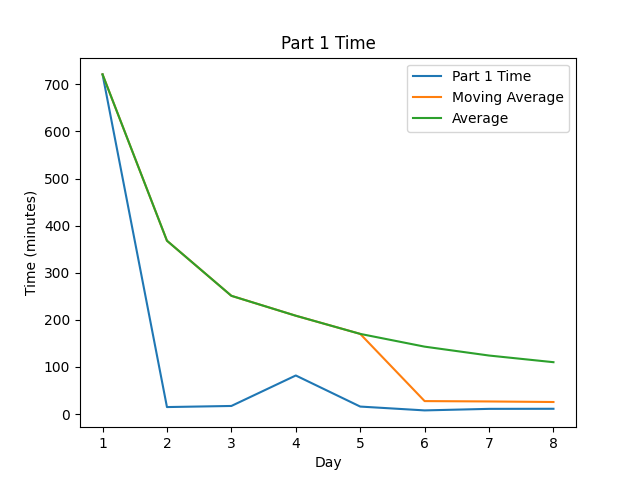
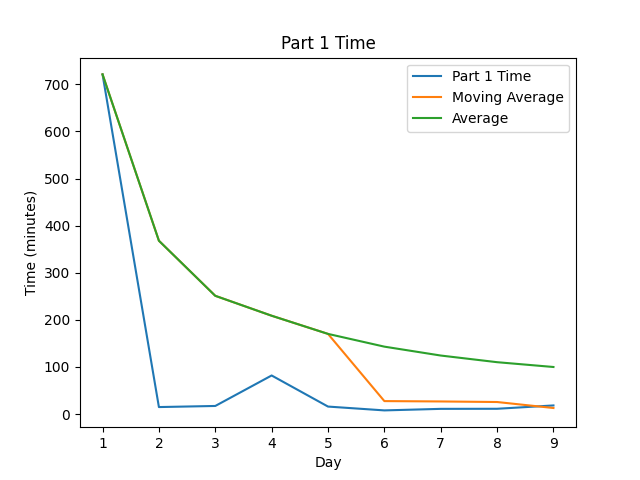
Day 9 ✅

diff --git a/src/day09/solution.rs b/src/day09/solution.rs
@@ -1,0 +1,95 @@
+fn parse_locations(input: String) -> Vec<Vec<usize>> {
+    input
+        .lines()
+        .map(|line| {
+            line.trim().chars().map(|c| c.to_digit(10).unwrap() as usize).collect::<Vec<usize>>()
+        })
+        .collect::<Vec<Vec<usize>>>()
+}
+fn find_low_spots(locations: Vec<Vec<usize>>) -> Vec<(usize, usize)> {
+    let mut low_spots = vec![];
+    for i in 0..locations.len() {
+        for j in 0..locations[i].len() {
+            // Continue if found to be adjacent to a lower spot
+            if i > 0 && locations[i][j] >= locations[i - 1][j] {
+                continue;
+            }
+            if i < locations.len() - 1 && locations[i][j] >= locations[i + 1][j] {
+                continue;
+            }
+            if j > 0 && locations[i][j] >= locations[i][j - 1] {
+                continue;
+            }
+            if j < locations[i].len() - 1 && locations[i][j] >= locations[i][j + 1] {
+                continue;
+            }
+            // Local minimum found
+            low_spots.push((i, j));
+        }
+    }
+    low_spots
+}
+
+pub fn part1(input: String) -> i64 {
+    let locations = parse_locations(input);
+    find_low_spots(locations.clone())
+        .iter()
+        // Risk factor of a spot is equal to 1 plus the depth
+        .map(|(i, j)| locations[*i][*j] as i64 + 1)
+        .sum::<i64>()
+}
+
+pub fn part2(input: String) -> i64 {
+    let locations = parse_locations(input);
+    let mut basins = vec![];
+    find_low_spots(locations.clone())
+        .iter()
+        .for_each(|spot| {
+            // Perform a breadth-first search on all low spots to determine the size of the basin
+            let mut queue = vec![*spot];
+            // Track the map of visited spots to prevent double counting
+            let mut in_basin = vec![
+                vec![false; locations[0].len()];
+                locations.len()
+            ];
+            while let Some(curr) = queue.pop() {
+                in_basin[curr.0][curr.1] = true;
+                // Check adjacent cells. If they're in the same basin, add them to the queue
+
+                if curr.0 > 0 &&
+                    // If not already visited, add to the queue
+                    !in_basin[curr.0 - 1][curr.1] &&
+                    // Not a basin barrier
+                    locations[curr.0 - 1][curr.1] >= locations[curr.0][curr.1] &&
+                    // 9's are barriers automatically
+                    locations[curr.0 - 1][curr.1] != 9 {
+                    queue.push((curr.0 - 1, curr.1));
+                }
+                if curr.0 < locations.len() - 1 &&
+                    !in_basin[curr.0 + 1][curr.1] &&
+                    locations[curr.0 + 1][curr.1] >= locations[curr.0][curr.1] &&
+                    locations[curr.0 + 1][curr.1] != 9 {
+                    queue.push((curr.0 + 1, curr.1));
+                }
+                if curr.1 > 0 &&
+                    !in_basin[curr.0][curr.1 - 1] &&
+                    locations[curr.0][curr.1 - 1] >= locations[curr.0][curr.1] &&
+                    locations[curr.0][curr.1 - 1] != 9 {
+                    queue.push((curr.0, curr.1 - 1));
+                }
+                if curr.1 < locations[curr.0].len() - 1 &&
+                    !in_basin[curr.0][curr.1 + 1] &&
+                    locations[curr.0][curr.1 + 1] >= locations[curr.0][curr.1] &&
+                    locations[curr.0][curr.1 + 1] != 9 {
+                    queue.push((curr.0, curr.1 + 1));
+                }
+            }
+            basins.push(
+                 in_basin.iter().fold(0, |acc, row| acc + row.iter().filter(|&&b| b).count() as i64) as i64
+            );
+        });
+    // Sort descending by basin size
+    basins.sort_by(|a, b| (*b).cmp(a));
+    // Score is the product of the 3 largest basins
+    basins[0..=2].iter().product()
+}

diff --git a/tests/test_day09.rs b/tests/test_day09.rs
@@ -1,0 +1,25 @@
+use aoc_2021::day09 as day;
+
+#[test]
+fn test_part1() {
+    let inputs = "2199943210
+3987894921
+9856789892
+8767896789
+9899965678";
+    let expected = 15;
+    let result = day::part1(inputs.to_string());
+    assert_eq!(expected, result);
+}
+
+#[test]
+fn test_part2() {
+    let inputs = "2199943210
+3987894921
+9856789892
+8767896789
+9899965678";
+    let expected = 1134;
+    let result = day::part2(inputs.to_string());
+    assert_eq!(expected, result);
+}

diff --git a/src/main.rs b/src/main.rs
@@ -28,6 +28,7 @@ fn get_day_fns() -> (PartFunction, PartFunction) {
         6 => (day06::part1, day06::part2),
         7 => (day07::part1, day07::part2),
         8 => (day08::part1, day08::part2),
+        9 => (day09::part1, day09::part2),
 // CASE_MARKER
         _ => {
             panic!("Invalid day number: {}", day_num);

diff --git a/src/lib.rs b/src/lib.rs
@@ -6,3 +6,4 @@
 #[path = "day06/solution.rs"] pub mod day06;
 #[path = "day07/solution.rs"] pub mod day07;
 #[path = "day08/solution.rs"] pub mod day08;
+#[path = "day09/solution.rs"] pub mod day09;

diff --git a/src/day09/README.md b/src/day09/README.md
@@ -1,0 +1,76 @@
+\--- Day 9: Smoke Basin ---
+---------------------------
+
+These caves seem to be [lava tubes](https://en.wikipedia.org/wiki/Lava_tube). Parts are even still volcanically active; small hydrothermal vents release smoke into the caves that slowly settles like rain.
+
+If you can model how the smoke flows through the caves, you might be able to avoid it and be that much safer. The submarine generates a heightmap of the floor of the nearby caves for you (your puzzle input).
+
+Smoke flows to the lowest point of the area it's in. For example, consider the following heightmap:
+
+    2199943210
+    3987894921
+    9856789892
+    8767896789
+    9899965678
+    
+
+Each number corresponds to the height of a particular location, where `9` is the highest and `0` is the lowest a location can be.
+
+Your first goal is to find the _low points_ - the locations that are lower than any of its adjacent locations. Most locations have four adjacent locations (up, down, left, and right); locations on the edge or corner of the map have three or two adjacent locations, respectively. (Diagonal locations do not count as adjacent.)
+
+In the above example, there are _four_ low points, all highlighted: two are in the first row (a `1` and a `0`), one is in the third row (a `5`), and one is in the bottom row (also a `5`). All other locations on the heightmap have some lower adjacent location, and so are not low points.
+
+The _risk level_ of a low point is _1 plus its height_. In the above example, the risk levels of the low points are `2`, `1`, `6`, and `6`. The sum of the risk levels of all low points in the heightmap is therefore `_15_`.
+
+Find all of the low points on your heightmap. _What is the sum of the risk levels of all low points on your heightmap?_
+
+
+
+\--- Part Two ---
+-----------------
+
+Next, you need to find the largest basins so you know what areas are most important to avoid.
+
+A _basin_ is all locations that eventually flow downward to a single low point. Therefore, every low point has a basin, although some basins are very small. Locations of height `9` do not count as being in any basin, and all other locations will always be part of exactly one basin.
+
+The _size_ of a basin is the number of locations within the basin, including the low point. The example above has four basins.
+
+The top-left basin, size `3`:
+
+    2199943210
+    3987894921
+    9856789892
+    8767896789
+    9899965678
+    
+
+The top-right basin, size `9`:
+
+    2199943210
+    3987894921
+    9856789892
+    8767896789
+    9899965678
+    
+
+The middle basin, size `14`:
+
+    2199943210
+    3987894921
+    9856789892
+    8767896789
+    9899965678
+    
+
+The bottom-right basin, size `9`:
+
+    2199943210
+    3987894921
+    9856789892
+    8767896789
+    9899965678
+    
+
+Find the three largest basins and multiply their sizes together. In the above example, this is `9 * 14 * 9 = _1134_`.
+
+_What do you get if you multiply together the sizes of the three largest basins?_

diff --git a/README.md b/README.md
@@ -7,7 +7,7 @@
 
 #### Favorite problems:
 
-* 
+* [Day 8]: The second star of this day was a bit tricky, but a unique problem I don't frequently face.
 
 #### Interesting approaches:
 
@@ -28,7 +28,8 @@
 |   6 | 00:07:42 ( 1898) (  0)     | 00:38:18 ( 4676) (  0)     |
 |   7 | 00:10:58 ( 4963) (  0)     | 00:48:52 (10002) (  0)     |
 |   8 | 00:11:09 ( 2427) (  0)     | 01:10:57 ( 2861) (  0)     |
-| Avg | 01:50:03 (12579) (  0)     | 02:16:24 (12442) (  0)     |
+|   9 | 00:18:13 ( 4231) (  0)     | 00:30:30 ( 1923) (  0)     |
+| Avg | 01:39:50 (11651) (  0)     | 02:04:38 (11273) (  0)     |
 
 
 <!--suppress CheckImageSize -->

diff --git a/README_template.md b/README_template.md
@@ -7,7 +7,7 @@
 
 #### Favorite problems:
 
-* 
+* [Day 8]: The second star of this day was a bit tricky, but a unique problem I don't frequently face.
 
 #### Interesting approaches:
 
